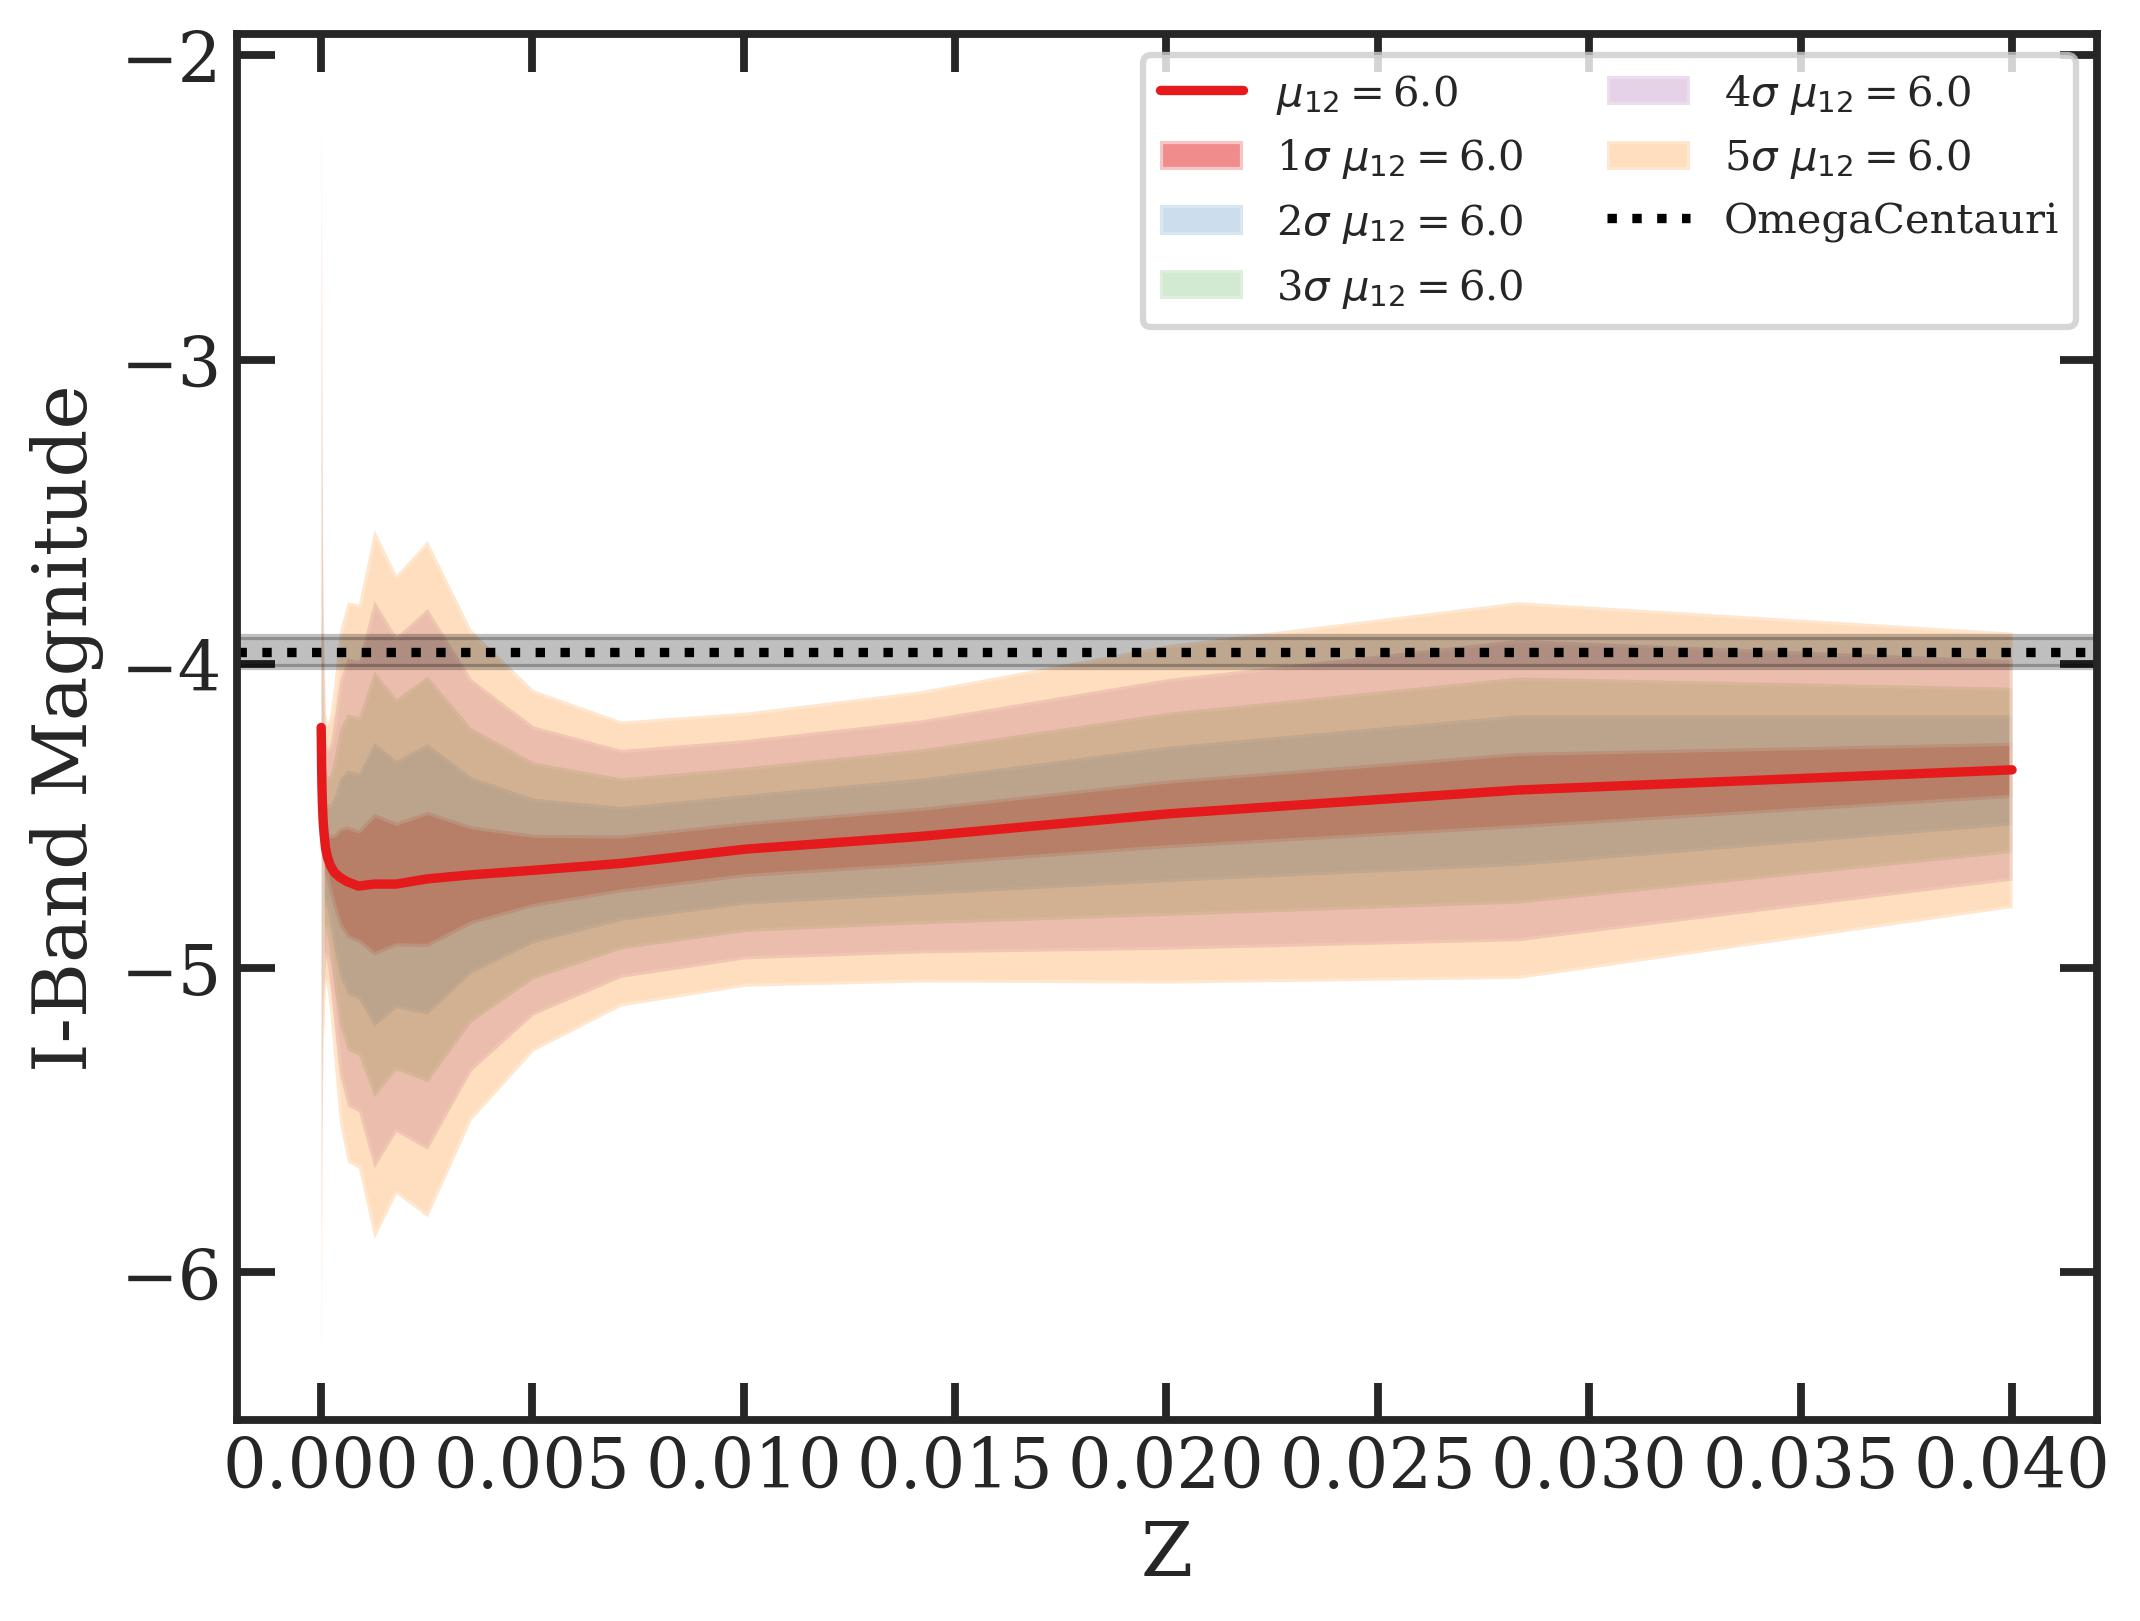
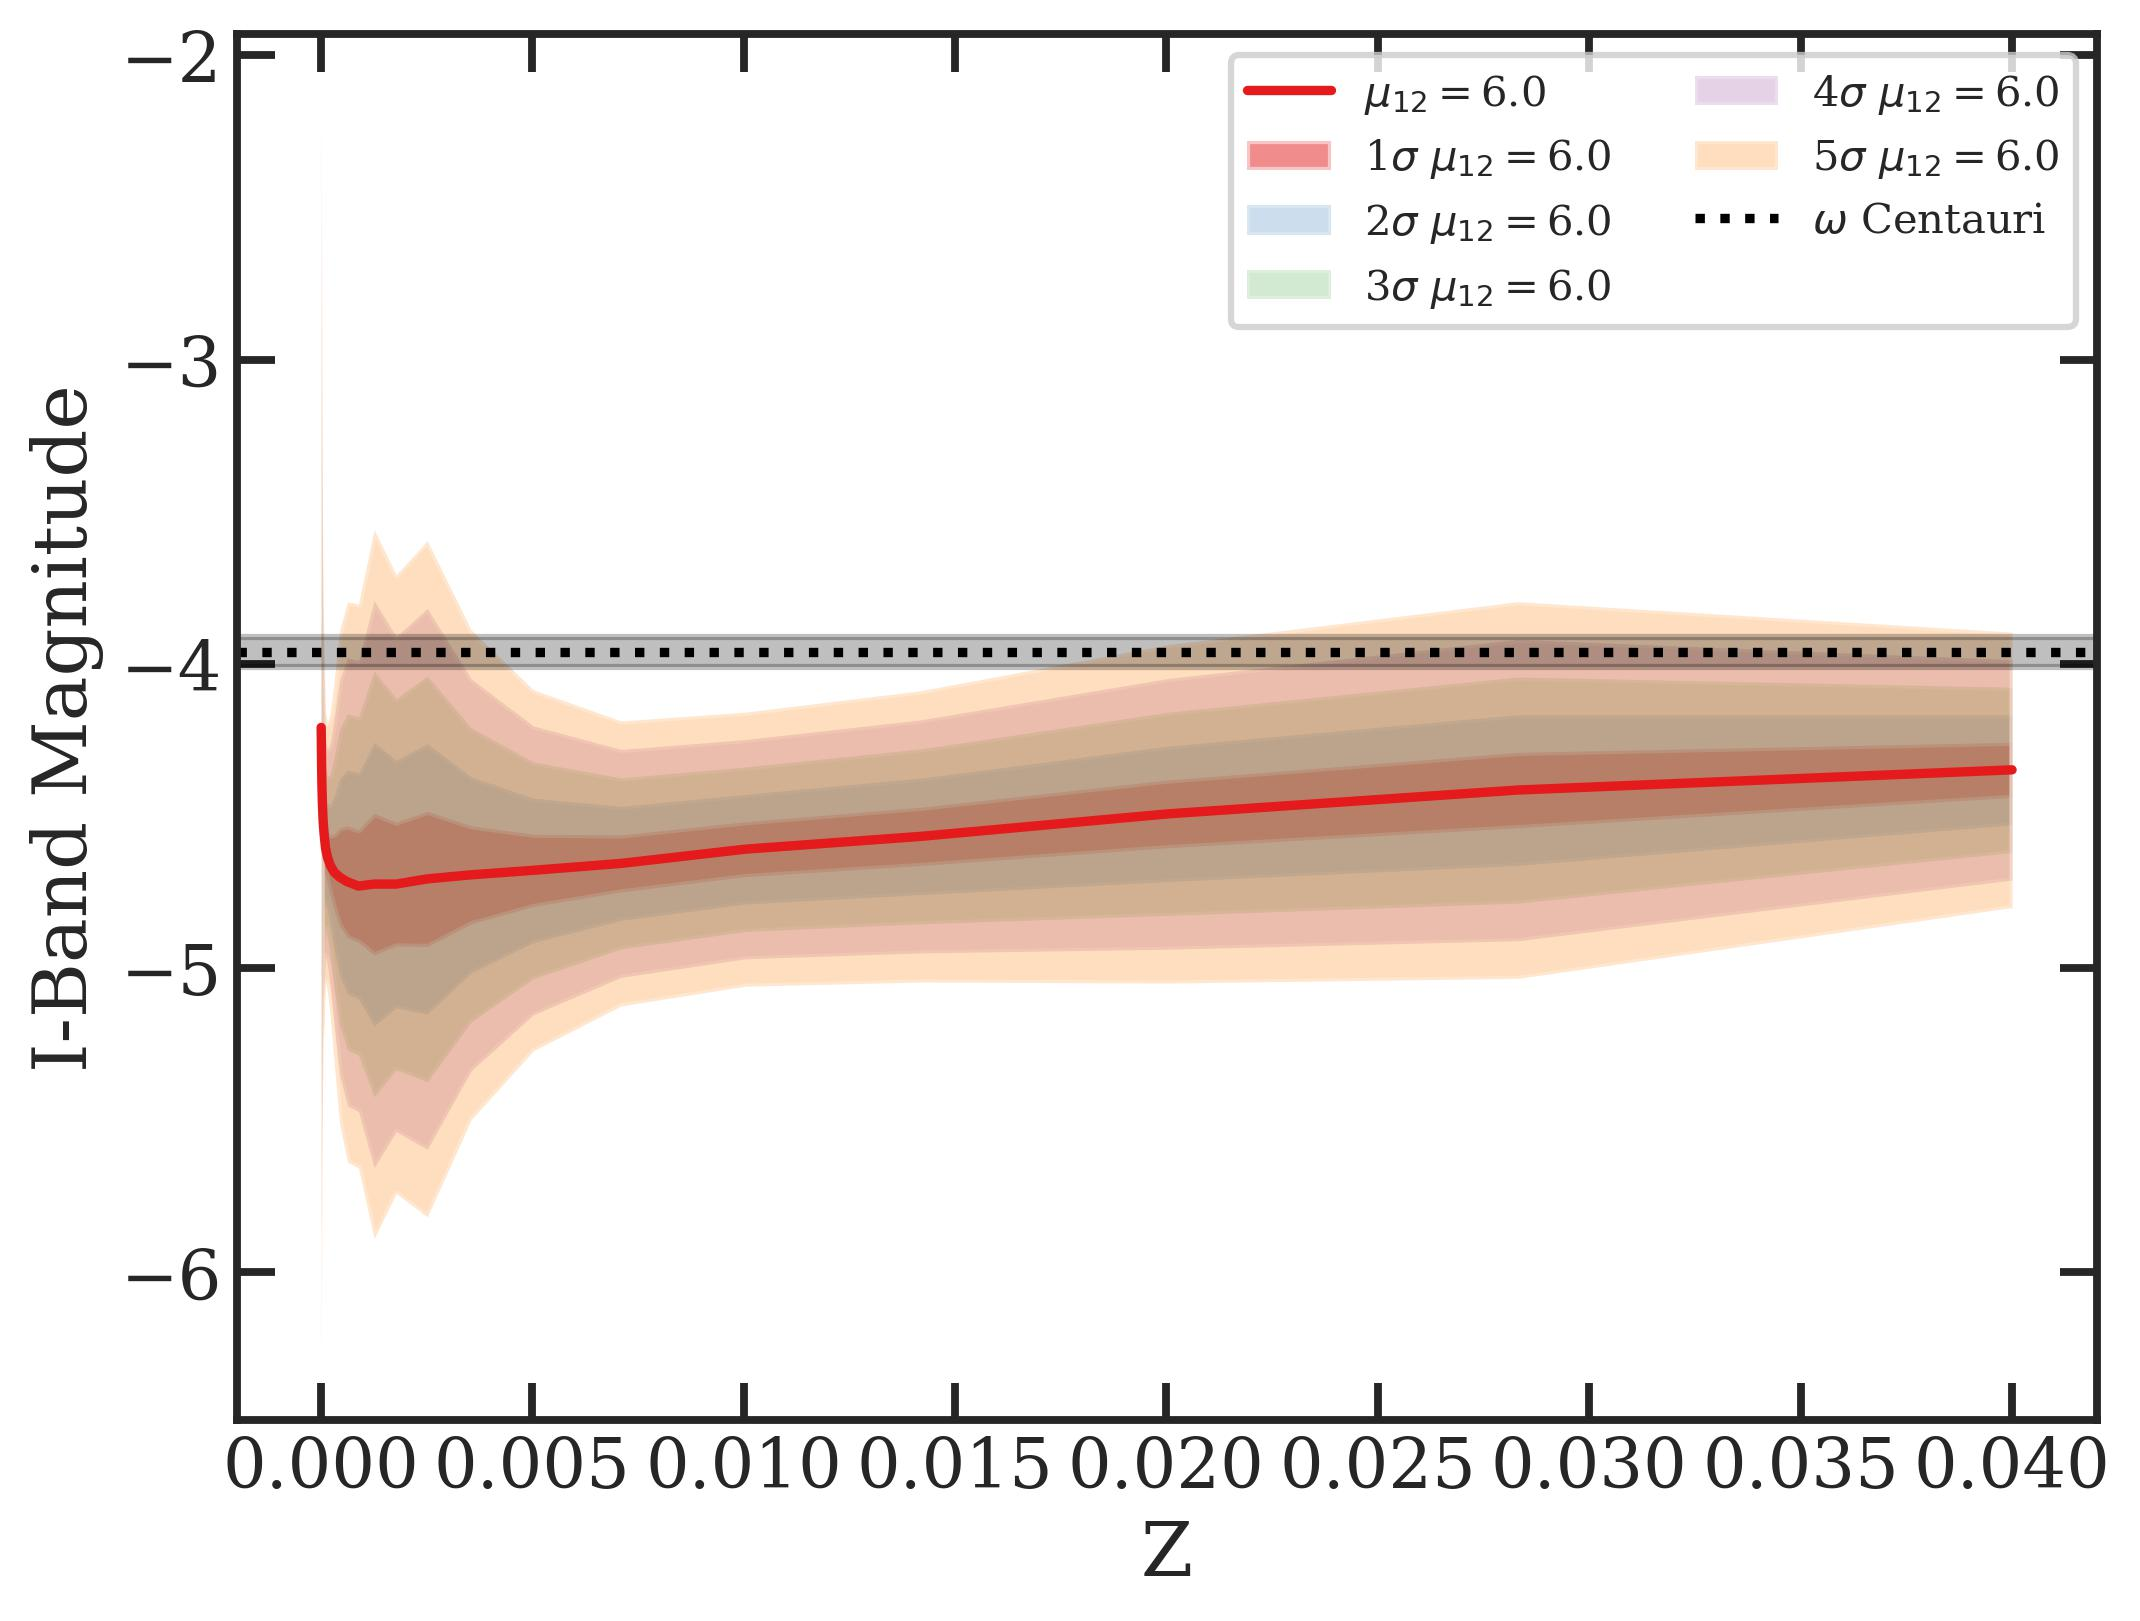
update analysis plots

Changed region(s): [[0.5243, 0.0308, 0.9561, 0.2159]]

diff --git a/analysis/output_analysis/genPlots.py b/analysis/output_analysis/genPlots.py
@@ -140,7 +140,7 @@ def plotMI(mags, obs='OmegaCentauri'):
     xmin, xmax = ax.get_xlim()
     x = np.linspace(xmin, xmax+0.5)
     
-    ax.plot(x, -3.96*np.ones(len(x)), linestyle='--', color='k', label=r'$\omega$ Centauri')
+    ax.plot(x, -3.96*np.ones(len(x)), linestyle=':', color='k', label=r'$\omega$ Centauri')
     ax.fill_between(x, -3.96-0.05, -3.96+0.05, color='k', alpha=a)
     #ax.plot(x, -4.027*np.ones(len(x)), linestyle='--', color='orange', label=r'NGC4258')
     #ax.fill_between(x, -4.027-0.055, -4.027+0.055, color='orange', alpha=a)
@@ -246,7 +246,7 @@ def Iband_vs_binned(df, obs, useAllMus=True, restrictY=False):
     elif obs == 'OmegaCentauri':
         obsI = -3.96
         obsErr = 0.05
-        obsNew = obs
+        obsNew = r'$\omega$ Centauri'
     elif obs == 'uncorrected':
         obsI = [-4.027, -4.047, -3.958, -3.96]
         obsErr = [0.055, 0.045, 0.046, 0.05]
